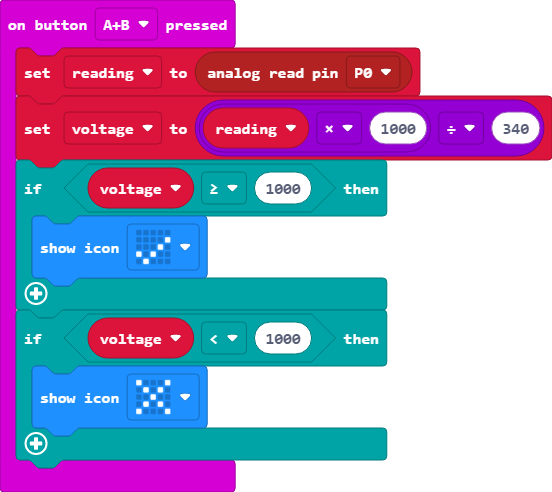
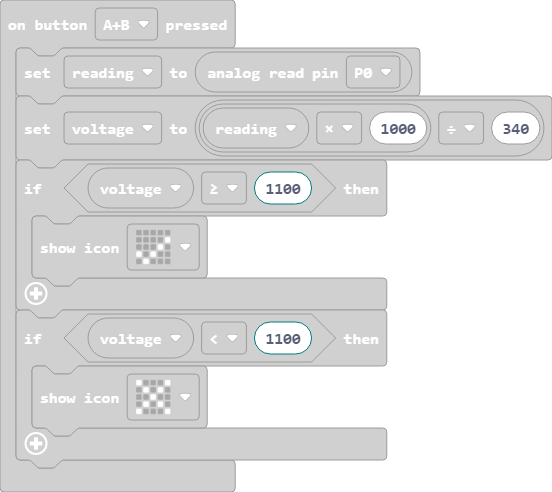
Update main.ts, main.blocks

diff --git a/main.ts b/main.ts
@@ -5,10 +5,10 @@ input.onButtonPressed(Button.A, function () {
 input.onButtonPressed(Button.AB, function () {
     reading = pins.analogReadPin(AnalogPin.P0)
     voltage = reading * 1000 / 340
-    if (voltage >= 1000) {
+    if (voltage >= 1100) {
         basic.showIcon(IconNames.Yes)
     }
-    if (voltage < 1000) {
+    if (voltage < 1100) {
         basic.showIcon(IconNames.No)
     }
 })
